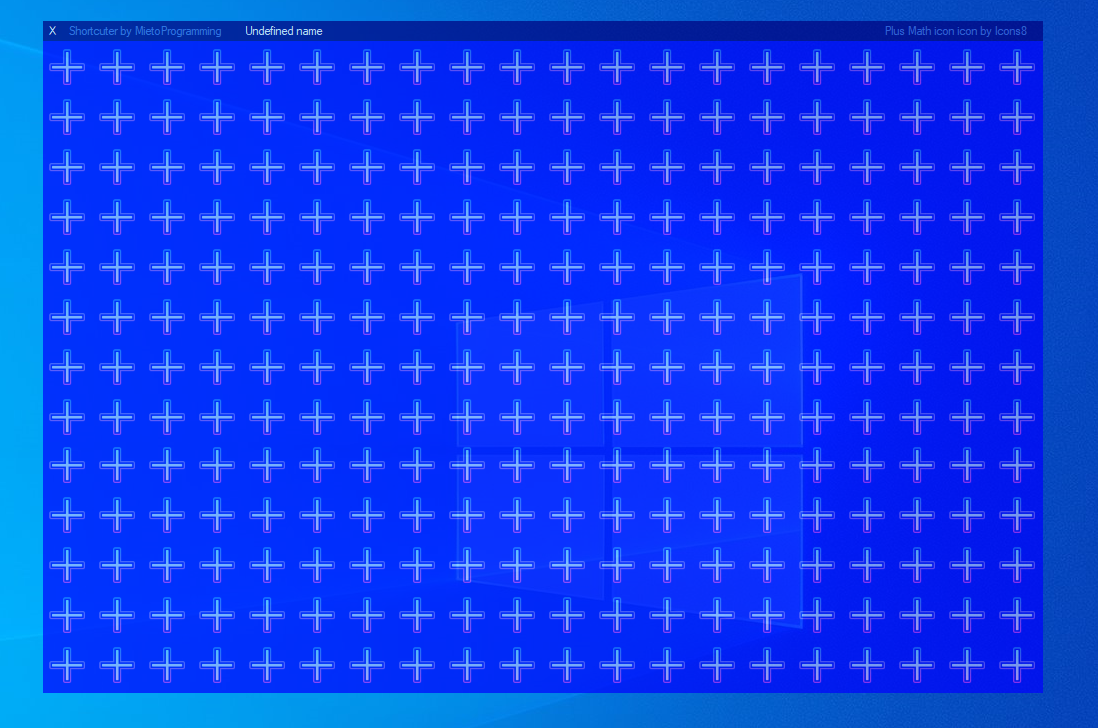
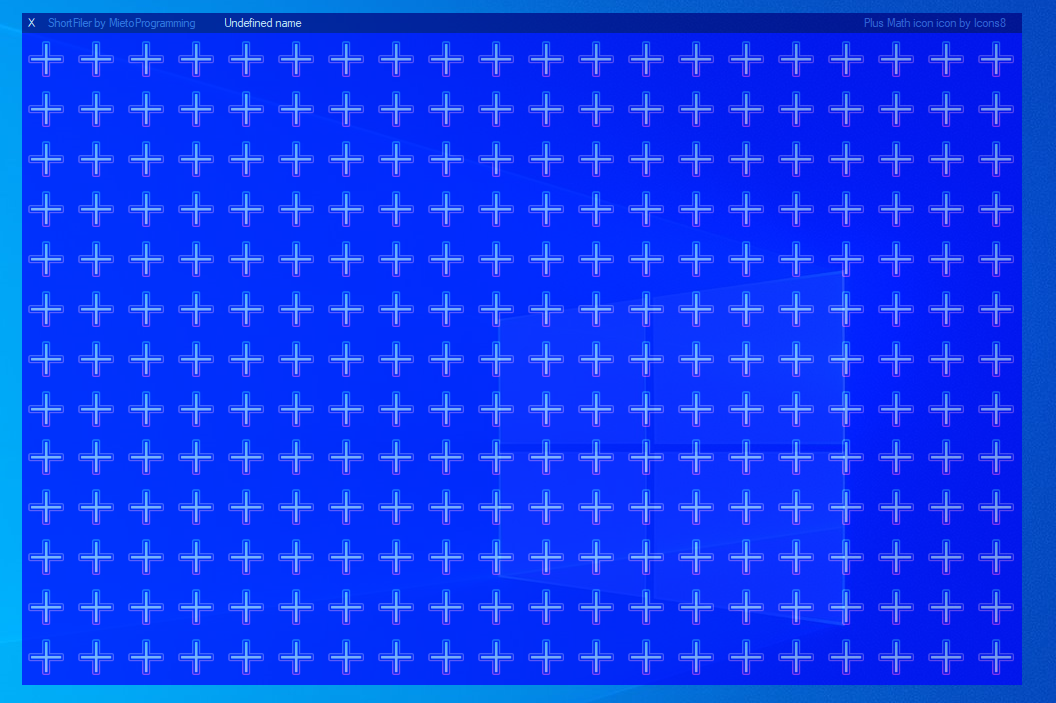
Corrects with name and images.

diff --git a/FavouriteApps-WinForms/Form1.Designer.cs b/FavouriteApps-WinForms/Form1.Designer.cs
@@ -657,9 +657,9 @@
             this.label2.ForeColor = System.Drawing.Color.RoyalBlue;
             this.label2.Location = new System.Drawing.Point(23, 3);
             this.label2.Name = "label2";
-            this.label2.Size = new System.Drawing.Size(160, 13);
+            this.label2.Size = new System.Drawing.Size(155, 13);
             this.label2.TabIndex = 9;
-            this.label2.Text = "Shortcuter by MietoProgramming";
+            this.label2.Text = "ShortFiler by MietoProgramming";
             this.label2.MouseDoubleClick += new System.Windows.Forms.MouseEventHandler(this.TopBar_MouseDoubleClick);
             this.label2.MouseDown += new System.Windows.Forms.MouseEventHandler(this.TopBar_MouseDown);
             this.label2.MouseMove += new System.Windows.Forms.MouseEventHandler(this.TopBar_MouseMove);
